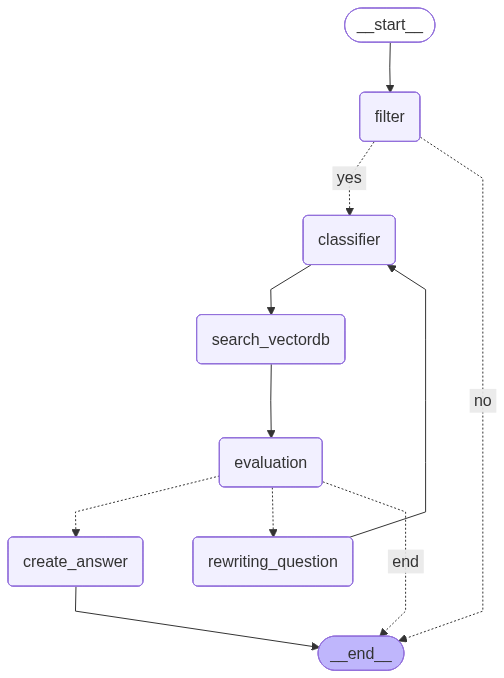
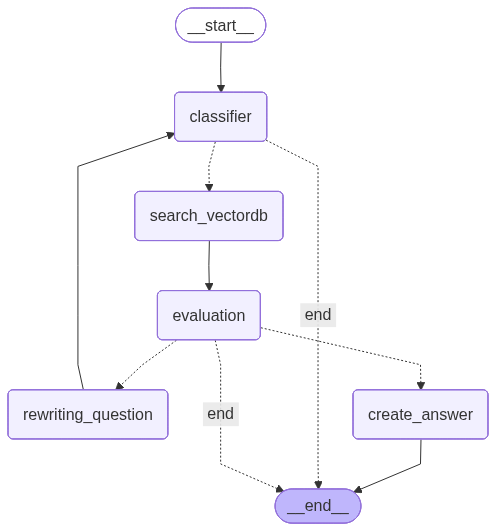
Refactor: 그래프 빌드 수정 및 query_classifier_node state 수정

diff --git a/build_graph.py b/build_graph.py
@@ -9,7 +9,6 @@ from dotenv import load_dotenv
 load_dotenv()
 
 # === Import all nodes ===
-from rag_pipline.nodes.domain_filter_node import DomainFilterNode
 from rag_pipline.nodes.query_classifier_node import QueryClassifierNode
 from rag_pipline.nodes.search_vectordb_node import SearchVectorDBNode
 from rag_pipline.nodes.evaluation_node import EvaluationNode
@@ -36,20 +35,37 @@ class GraphState(TypedDict):
 
 
 # ===========================================
-# ✅ 그래프 빌드 함수
+# 조건 함수
+# ===========================================
+def is_classifier_yes(state: GraphState) -> str:
+    """분류 결과에 따라 RAG 수행 여부 결정"""
+    if state.get("is_rag_eligible", False):
+        return "search_vectordb"
+    return "end"
+
+
+def is_evaluation_yes(state: GraphState) -> str:
+    """검색 결과의 적합도 평가 후 흐름 결정"""
+    if state.get("is_relevant", False):
+        return "create_answer"
+    elif state.get("retry_count", 0) < 1:
+        return "rewriting_question"
+    return "end"
+
+
+# ===========================================
+# 그래프 빌드 함수
 # ===========================================
 def build_graph(conn_str: str):
     graph = StateGraph(GraphState)
 
     # --- 노드 등록 ---
-    filter_node = DomainFilterNode()
     classifier = QueryClassifierNode()
     search = SearchVectorDBNode(conn_str=conn_str)
     eval_node = EvaluationNode(threshold=0.7)
     rewrite = RewriteNode(max_retry=1)
     creator = CreateNode()
 
-    graph.add_node("filter", filter_node)
     graph.add_node("classifier", classifier)
     graph.add_node("search_vectordb", search)
     graph.add_node("evaluation", eval_node)
@@ -57,52 +73,37 @@ def build_graph(conn_str: str):
     graph.add_node("create_answer", creator)
 
     # ===========================================
-    # ✅ 1⃣ filter 노드 — 보험 관련 여부 판단
+    # ✅ 1⃣ classifier → (search_vectordb or END)
     # ===========================================
-    def route_from_filter(state: GraphState):
-        if state.get("is_rag_eligible", False):
-            return "yes"
-        else:
-            return "no"
-
     graph.add_conditional_edges(
-        "filter",
-        route_from_filter,
+        "classifier",
+        is_classifier_yes,
         {
-            "yes": "classifier",
-            "no": END
-        }
+            "search_vectordb": "search_vectordb",
+            "end": END,
+        },
     )
 
     # ===========================================
-    # ✅ 2⃣ classifier → search → evaluation
+    # ✅ 2⃣ search → evaluation
     # ===========================================
-    graph.add_edge("classifier", "search_vectordb")
     graph.add_edge("search_vectordb", "evaluation")
 
     # ===========================================
     # ✅ 3⃣ evaluation → rewrite / create / END
     # ===========================================
-    def route_after_eval(state: GraphState):
-        if state.get("is_relevant", False):
-            return "create_answer"
-        elif state.get("retry_count", 0) < 1:
-            return "rewriting_question"
-        else:
-            return "end"
-
     graph.add_conditional_edges(
         "evaluation",
-        route_after_eval,
+        is_evaluation_yes,
         {
             "create_answer": "create_answer",
             "rewriting_question": "rewriting_question",
-            "end": END
-        }
+            "end": END,
+        },
     )
 
     # ===========================================
-    # ✅ 4⃣ rewrite → classifier (재분류 후 재검색)
+    # ✅ 4⃣ rewrite → classifier
     # ===========================================
     graph.add_edge("rewriting_question", "classifier")
 
@@ -114,6 +115,6 @@ def build_graph(conn_str: str):
     # ===========================================
     # ✅ Entry Point
     # ===========================================
-    graph.set_entry_point("filter")
+    graph.set_entry_point("classifier")
 
     return graph

diff --git a/run_graph.py b/run_graph.py
@@ -1,10 +1,5 @@
-#!/usr/bin/env python3
-# -*- coding: utf-8 -*-
 """
-📘 run_graph.py
-──────────────────────────────────────────────
 LangGraph 전체 파이프라인 실행 파일
-──────────────────────────────────────────────
 """
 
 from build_graph import build_graph
@@ -27,3 +22,6 @@ final_state = app.invoke(state)
 
 print("\n🎯 최종 결과")
 pprint(final_state.get("final_answer", "답변 생성 실패"))
+print("\n🎯 최종 상태 전체 확인")
+from pprint import pprint
+pprint(final_state)

diff --git a/draw_graph.py b/draw_graph.py
@@ -1,4 +1,6 @@
-# 📄 draw_graph.py
+"""
+그래프 그리기
+"""
 from build_graph import build_graph
 
 CONN_STR = "postgresql://admin:admin123@localhost:5432/UNITvectordb"
@@ -7,7 +9,7 @@ print("🧩 그래프 구조 시각화 중...")
 graph = build_graph(conn_str=CONN_STR)
 app = graph.compile()
 
-# ✅ Mermaid 기반 시각화 (xray=True로 내부 조건 로직 포함)
+# Mermaid 기반 시각화 (xray=True로 내부 조건 로직 포함)
 png_bytes = app.get_graph(xray=True).draw_mermaid_png()
 
 # 파일로 저장

diff --git a/rag_pipline/nodes/query_classifier_node.py b/rag_pipline/nodes/query_classifier_node.py
@@ -60,5 +60,8 @@ class QueryClassifierNode:
 
         state["query_type"] = query_type
         state["companies"] = companies
-        print(f"🧠 query_type={query_type}, companies={companies}")
+
+        state["is_rag_eligible"] = query_type in ["single", "comparison"]
+
+        print(f"🧠 query_type={query_type}, companies={companies}, is_rag_eligible={state['is_rag_eligible']}")
         return state
